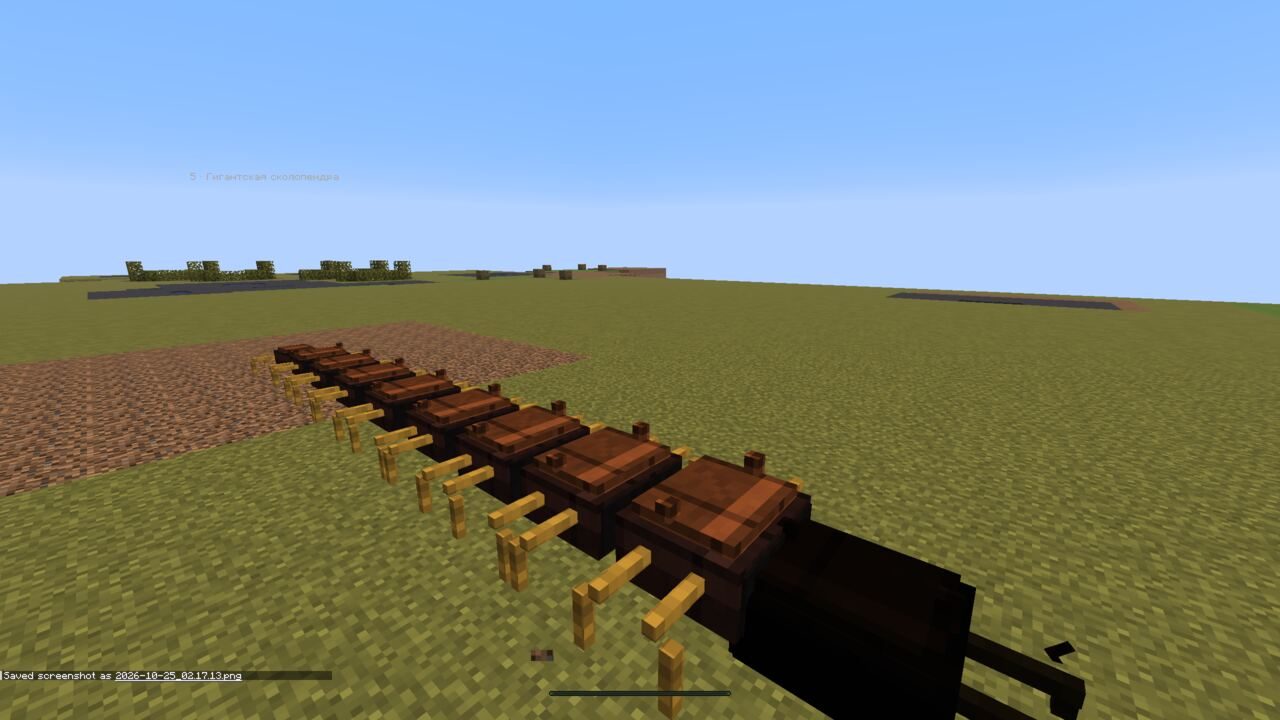
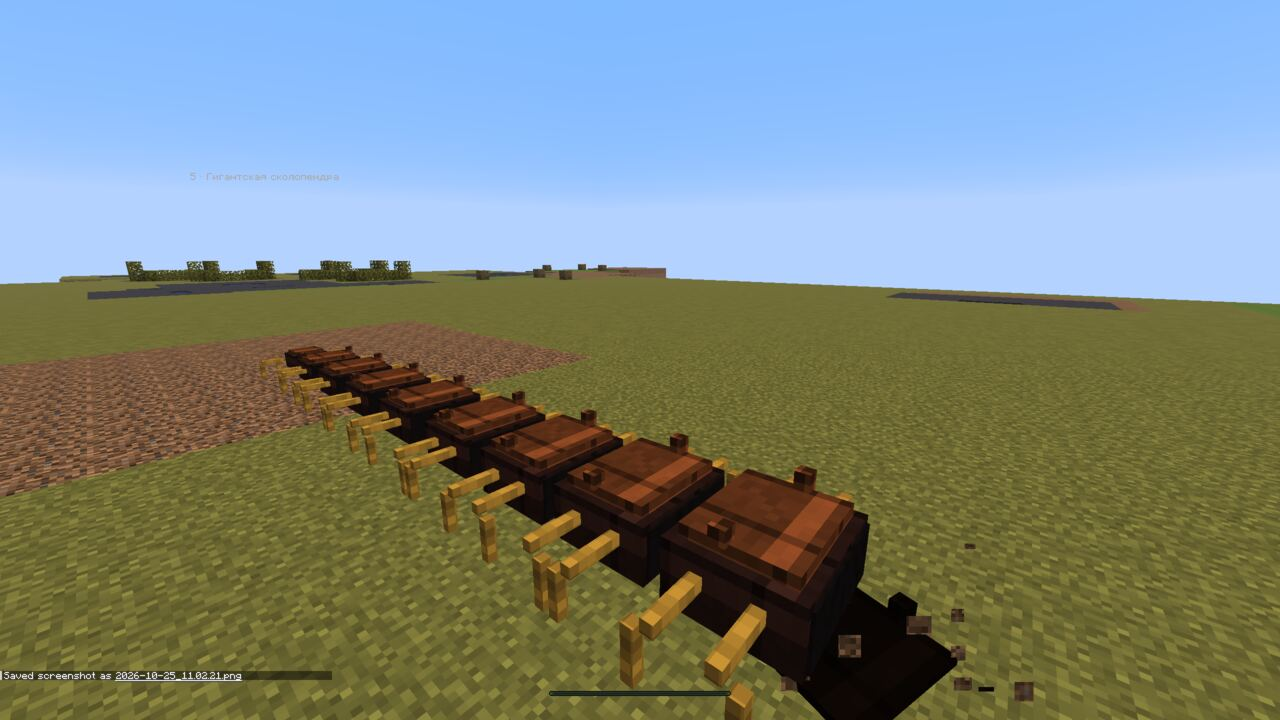
T-018: the rearing scolopendra is frozen, so the lifted head stays on the risen body

Changed region(s): [[0.1875, 0.4583, 0.875, 1.0], [0.125, 0.9167, 0.1875, 0.9472], [0.625, 0.9778, 0.6562, 1.0]]

diff --git a/tools/test_lab.py b/tools/test_lab.py
@@ -188,6 +188,16 @@ def t_fish():
         if h is not None: hmin = min(hmin, h)
         if p: dmax = max(dmax, ((p[0] - p0[0]) ** 2 + (p[2] - p0[2]) ** 2) ** 0.5); ymax = max(ymax, p[1])
     shot("fish_slam")
+    # the prey runs round it while it stands: the carrier must not turn (or the head and the risen body part ways)
+    R("execute as @e[tag=le.lab_fish,limit=1] at @s rotated ~ 0 positioned ^ ^ ^4.2 run tp Cam2 ~ ~ ~ facing entity @e[tag=le.lab_fish,limit=1] feet"); time.sleep(1.5)
+    R("execute as @e[tag=le.lab_fish,limit=1] at @s run function last_ember:lab/cent/rear_start"); yw = []
+    for i in range(12):
+        time.sleep(0.1)
+        if (score("@e[tag=le.lab_fish,limit=1]", "le.lfr") or 0) > 4: yw.append(num(R("data get entity @e[tag=le.lab_fish,limit=1] Rotation[0]")))
+        R("execute as Cam2 at @s at @e[tag=le.lab_fish,limit=1] rotated ~%d 0 positioned ^ ^ ^4 run tp Cam2 ~ ~ ~" % (40 + 25 * i))
+    look("le.lab_fish", 6, 1.5, 100); shot("fish_rear_side")
+    yw = [y for y in yw if y is not None]
+    chk("while it stands it does not turn after the prey (yaw %s)" % [round(y) for y in yw], len(yw) >= 3 and max(yw) - min(yw) < 2)
     chk("it rears up (%s) and strikes with its whole body: health %s -> %s, thrown back %.1f and up %.1f blocks" % (rs, hb, hmin, dmax, ymax - p0[1]), rs and hmin < hb and dmax > 1.5)
     time.sleep(1.0)
     h0 = num(R("data get entity @e[tag=le.lab_fish,limit=1] Health")); R("tp Cam2 @e[tag=le.cs6,limit=1]"); R("execute as Cam2 at @s run tp @s ~ ~ ~-1.5 0 30")

diff --git a/docs/reports/T-018-report.md b/docs/reports/T-018-report.md
@@ -243,3 +243,4 @@
 - **Сколопендра** встаёт выше (голова ~3 блока над землёй, дугой поднимаются 4 передних сегмента) и чаще (раз в 6,5–10 с, если добыча в 3–5 блоках). Удар корпусом: урон 9, игрока отбрасывает назад порывом ветра (~3,5 блока) и немного вверх, затем медленное падение (без урона от падения). Замер ботом.
 - **Варг** кусает сам (урон волка 0, свой укус на 6 + Кровь из пасти на дистанции до ~3,8 блока); ближе 2,3 блока отступает — держит морду перед игроком, игрок видит пасть, а не спину. Замер: держится в 2–3 блоках. Откат укуса 1,5 с.
 - Размеры Эдвард подтвердил.
+- Седьмая правка: когда сколопендра стоит на дыбах, носитель замирает (`NoAI`, отбрасывание выключено) — раньше он продолжал поворачиваться за игроком, и голова (пассажир) уходила в сторону от поднятых сегментов. Проверено ботом: игрок обегает её, поворот за всё время стойки 0°.
